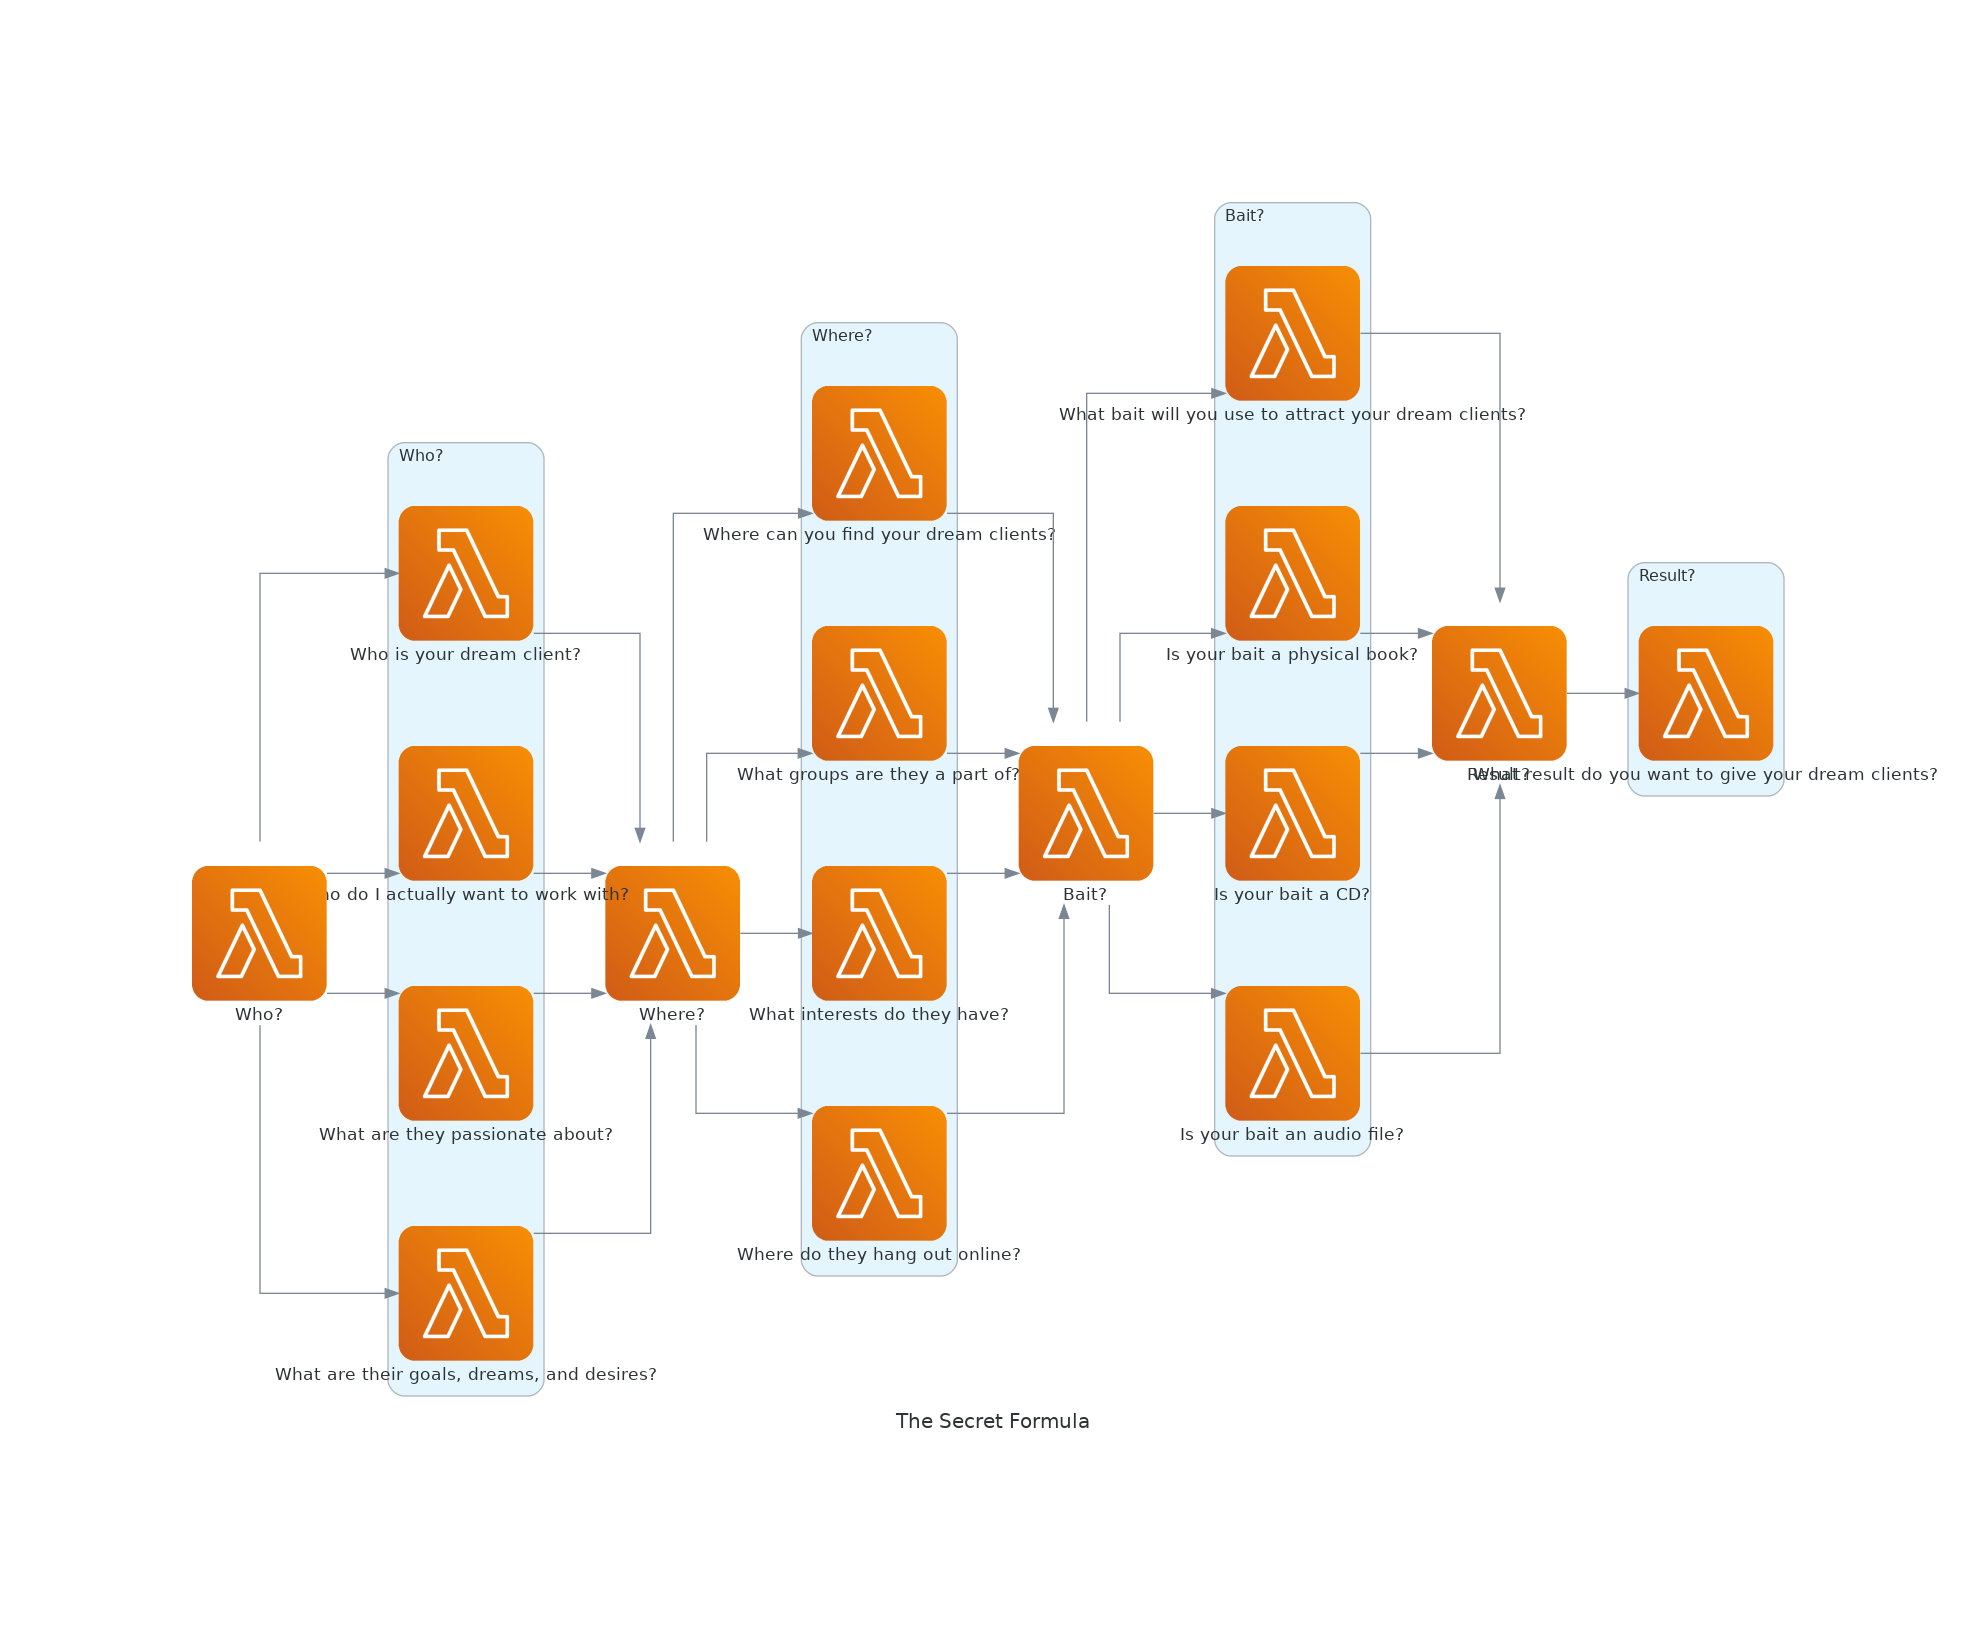
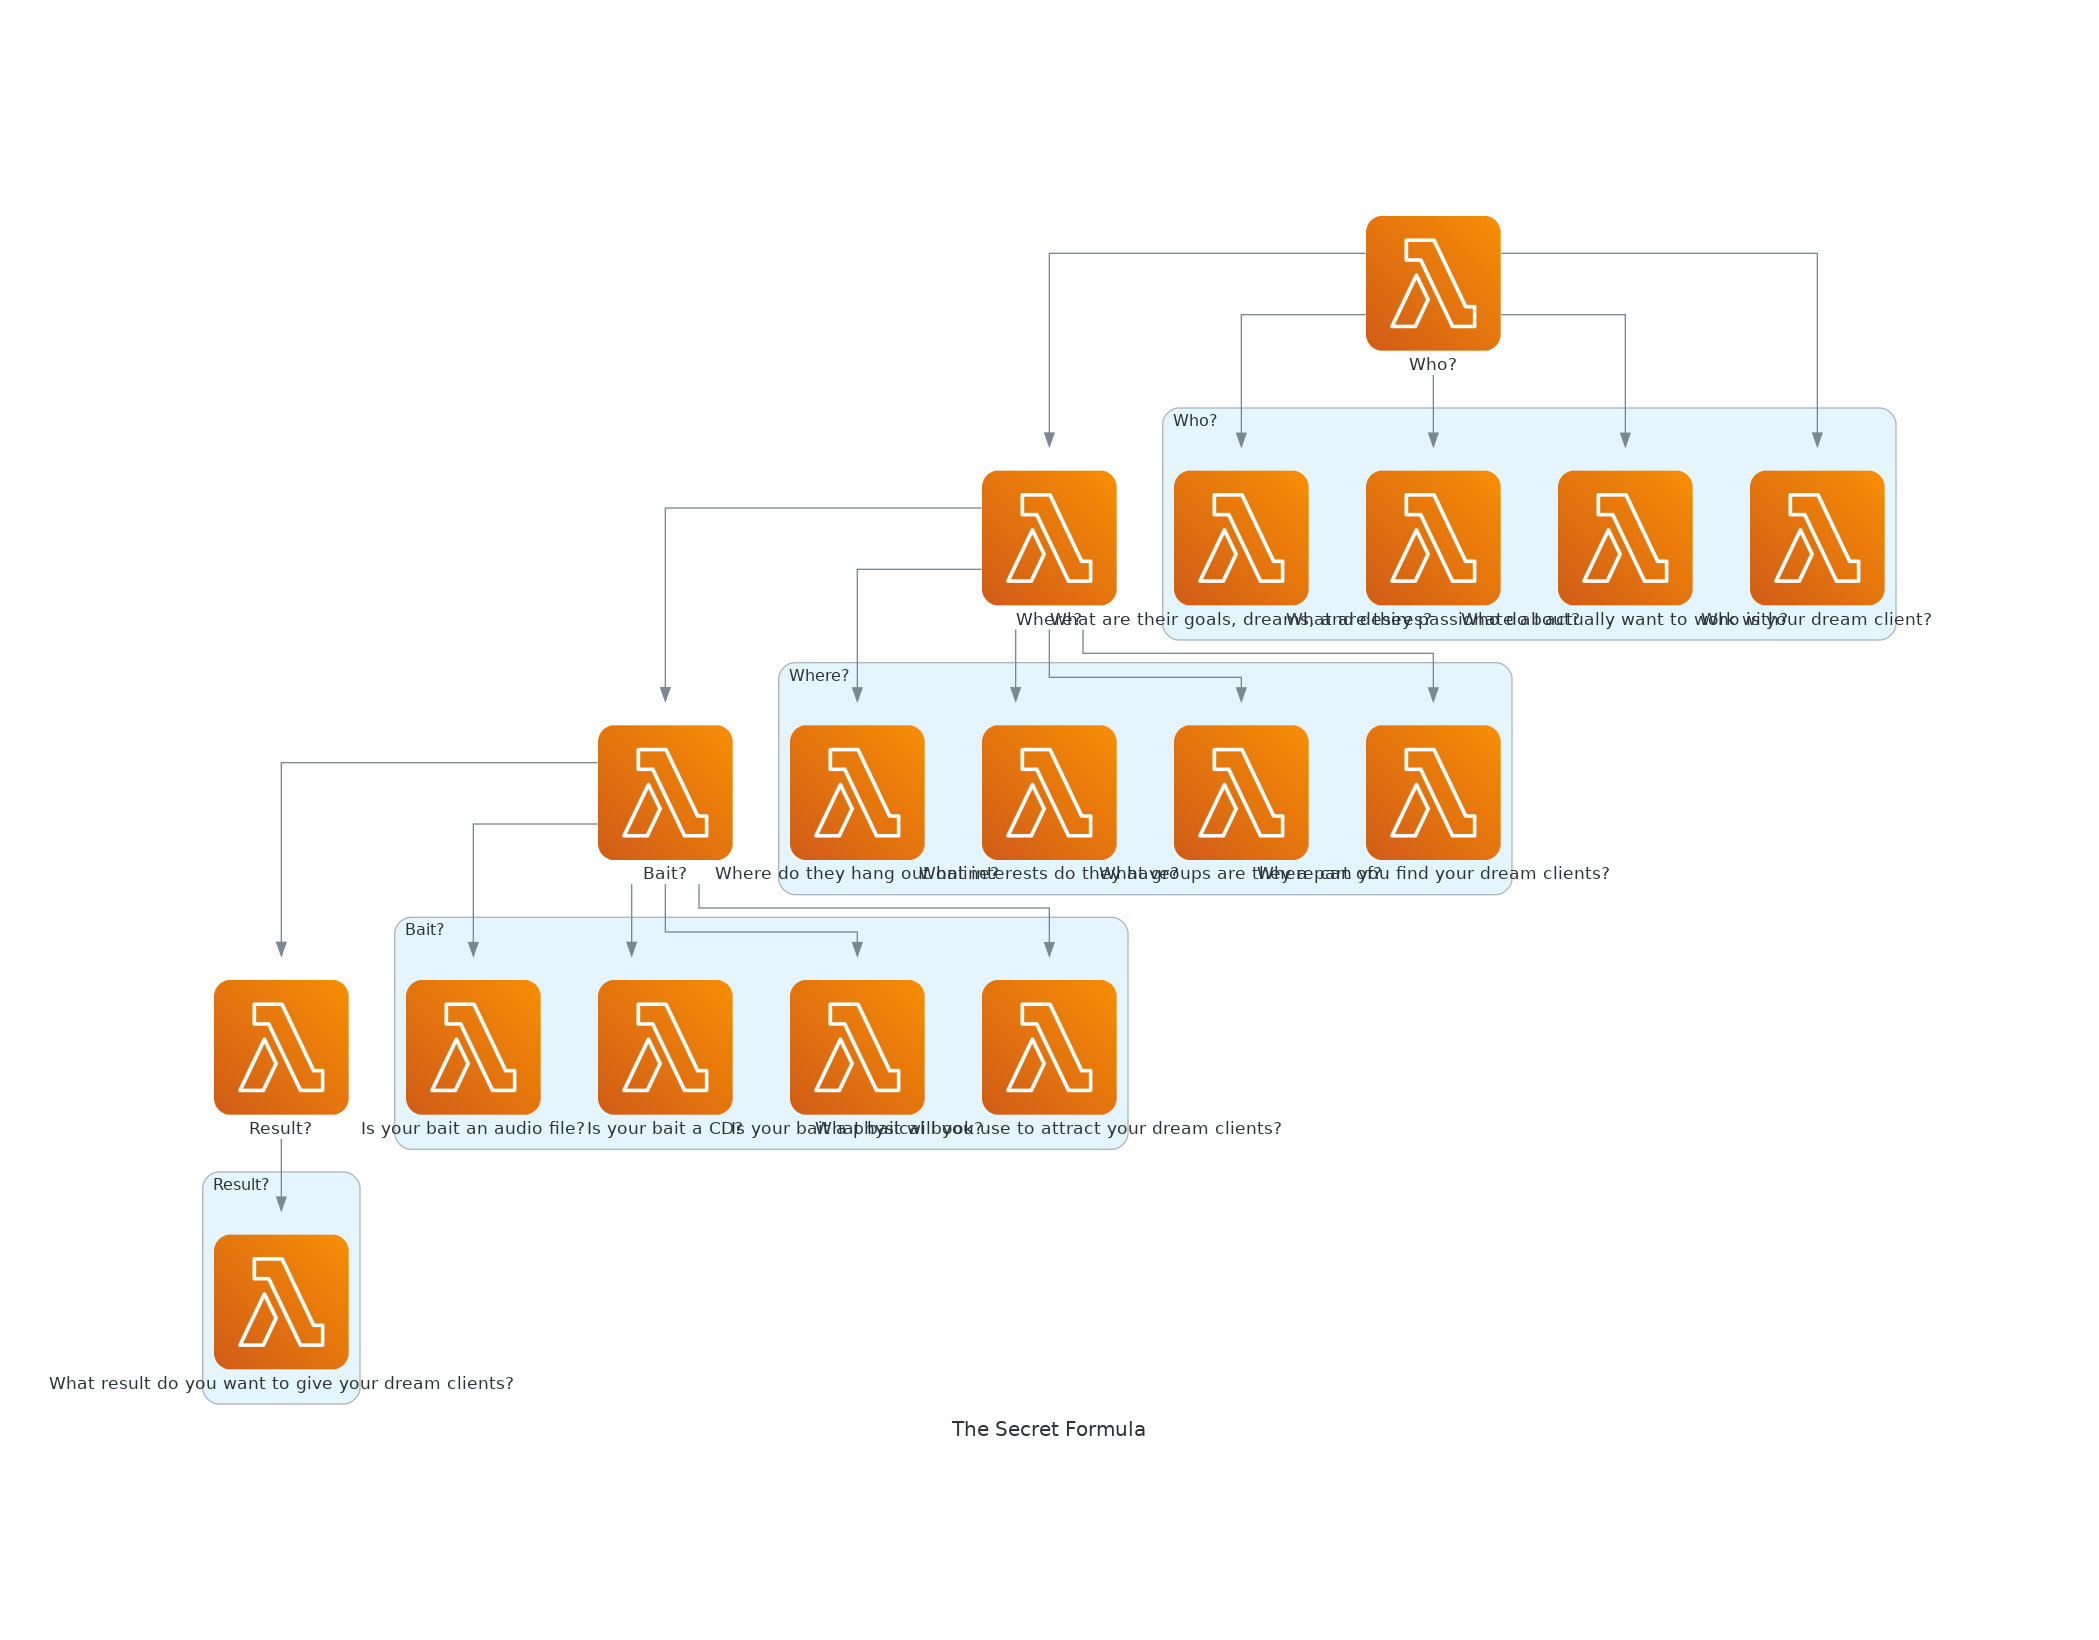
The secret formula graph is (slightly) improved(?)

Changed region(s): [[0.0936, 0.125, 0.9049, 0.875], [0.468, 0.8438, 0.5304, 0.875]]

diff --git a/src/diagrams/the-secret-formula.py b/src/diagrams/the-secret-formula.py
@@ -1,8 +1,12 @@
 from diagrams import Cluster, Diagram
 from diagrams.aws.compute import Lambda
 
-with Diagram("The Secret Formula", show=False):
-    with Cluster("Who?"):
+with Diagram("The Secret Formula", show=False, direction="TB"):
+    who = Lambda("Who?")
+    where = Lambda("Where?")
+    bait = Lambda("Bait?")
+    result = Lambda("Result?")
+    with Cluster("Who?", direction="TB"):
         whoQuestions = [
             Lambda("Who is your dream client?"),
             Lambda("Who do I actually want to work with?"),
@@ -31,4 +35,8 @@ with Diagram("The Secret Formula", show=False):
             Lambda("What result do you want to give your dream clients?")
         ]
 
-    Lambda("Who?") >> whoQuestions >> Lambda("Where?") >> whereQuestions >> Lambda("Bait?") >> baitQuestions >> Lambda("Result?") >> resultQuestions
+    who >> whoQuestions
+    where >> whereQuestions
+    bait >> baitQuestions
+    result >> resultQuestions
+    who >> where >> bait >> result
